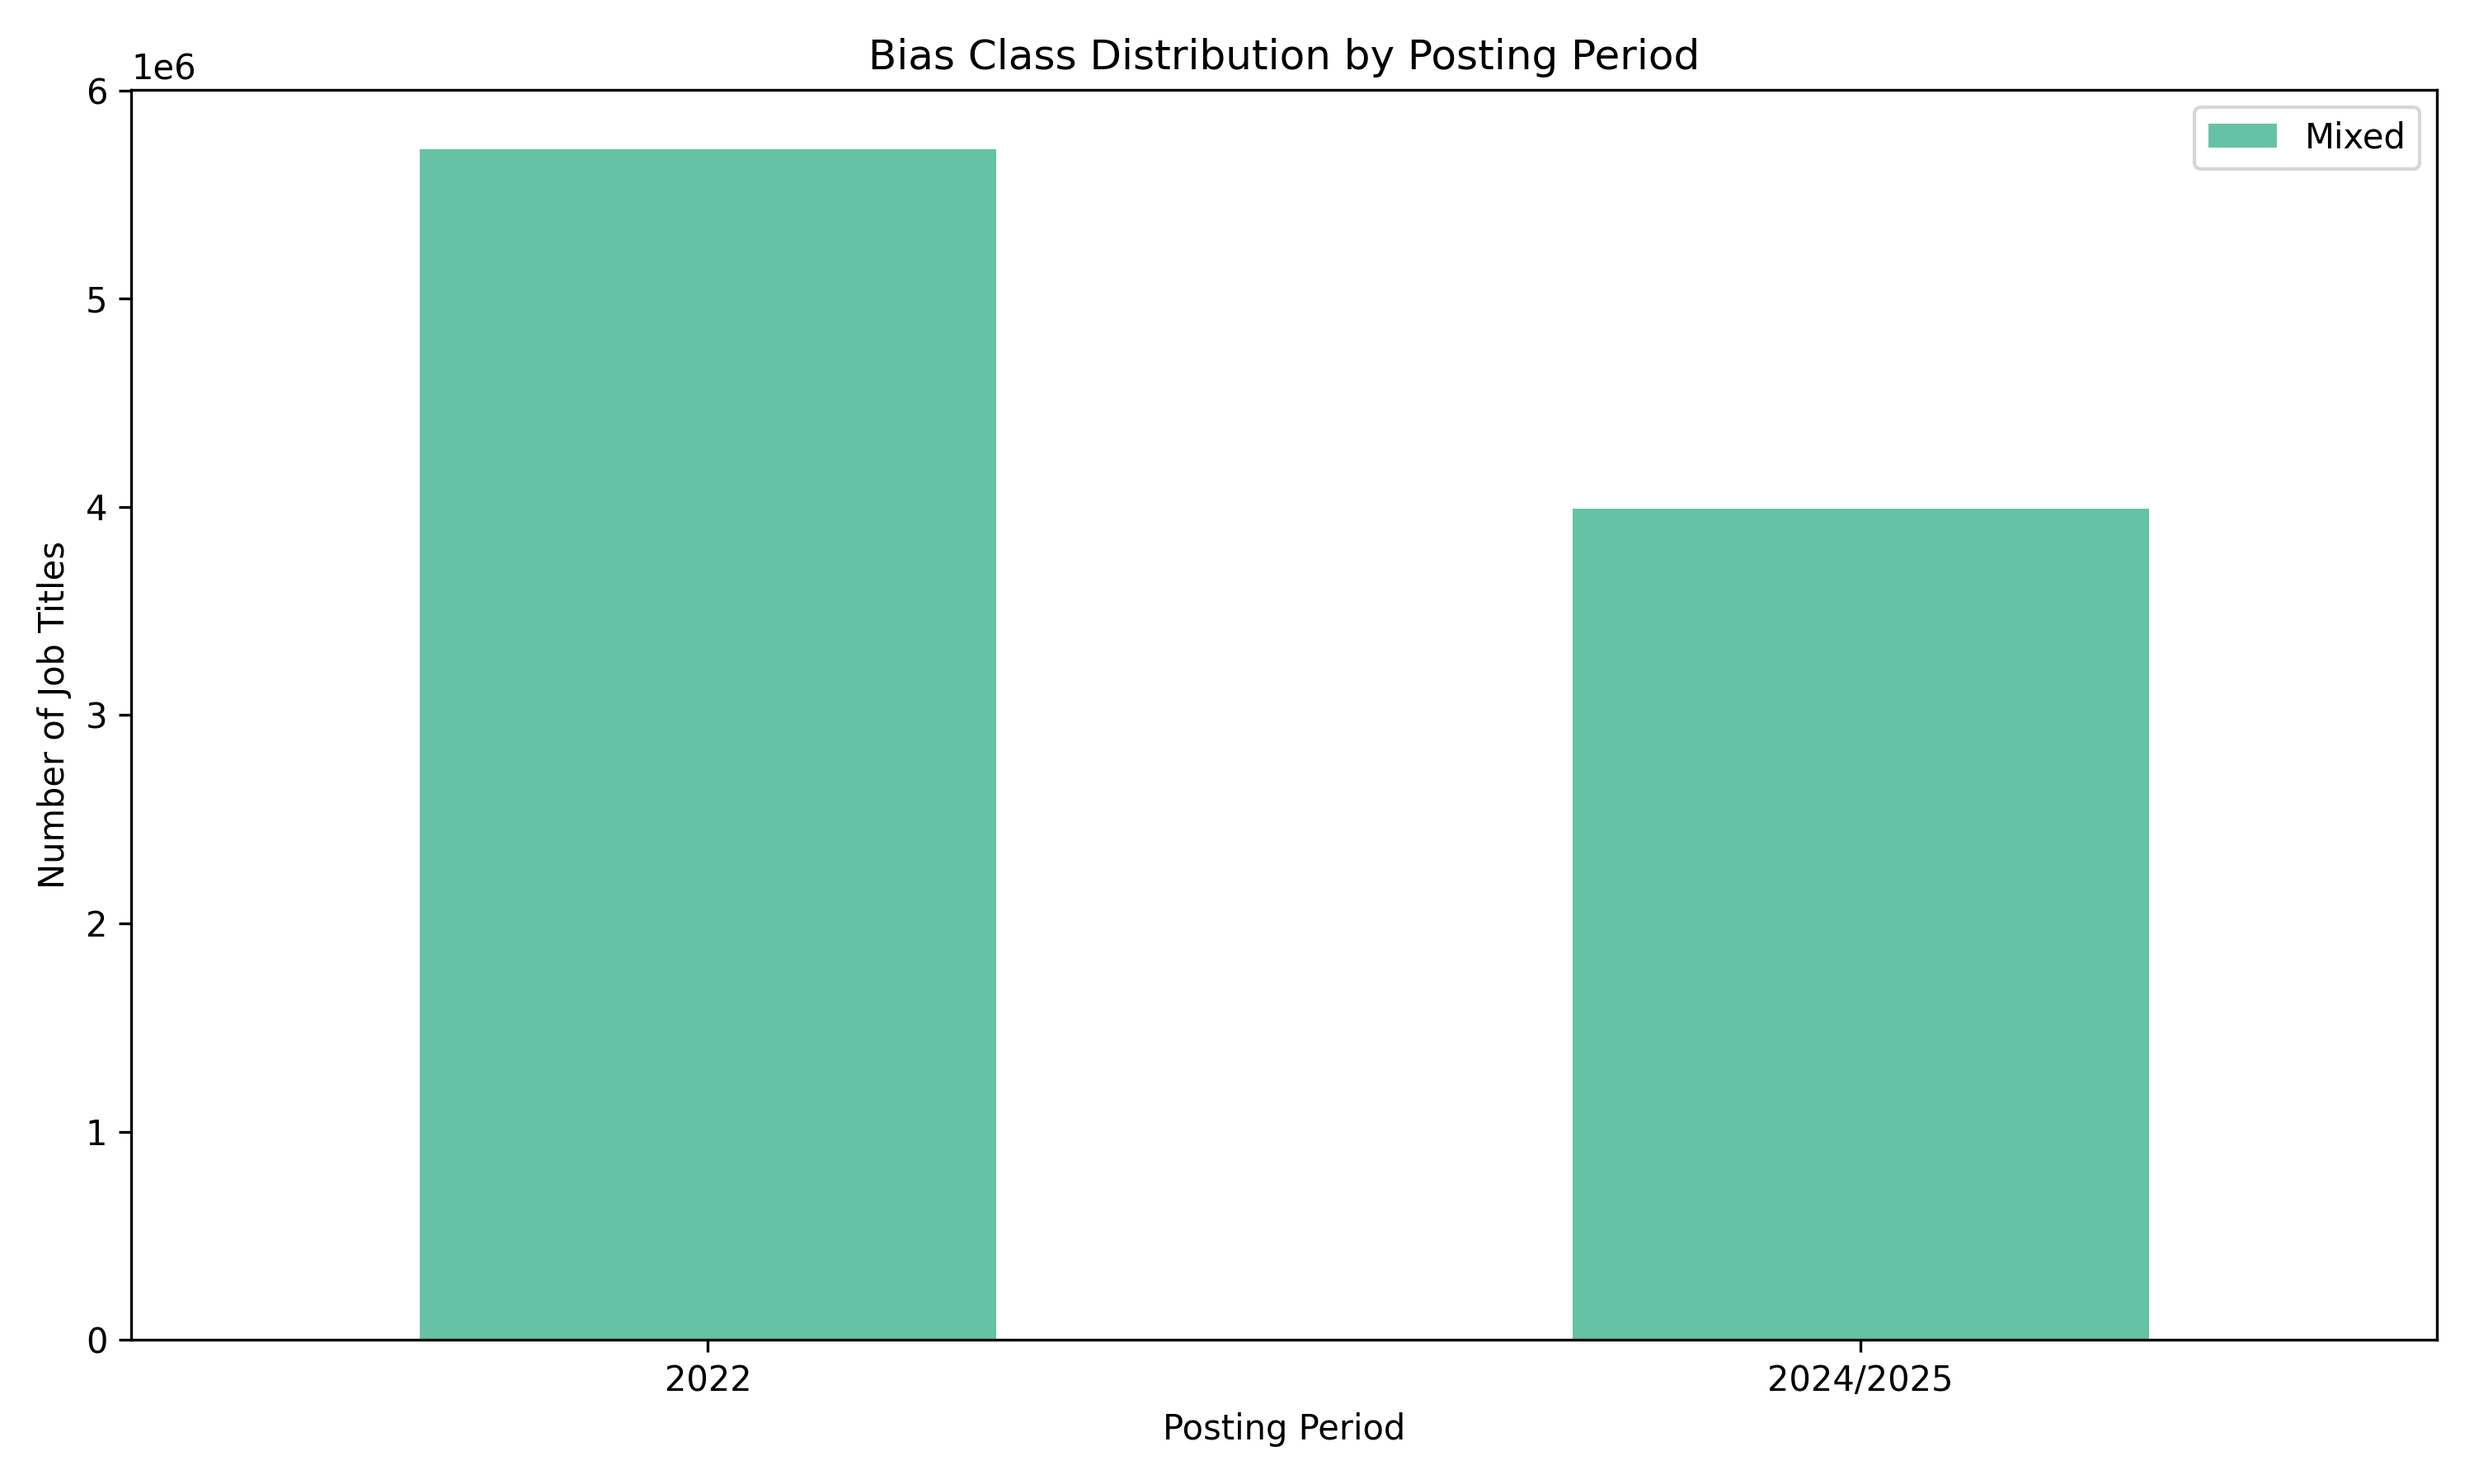
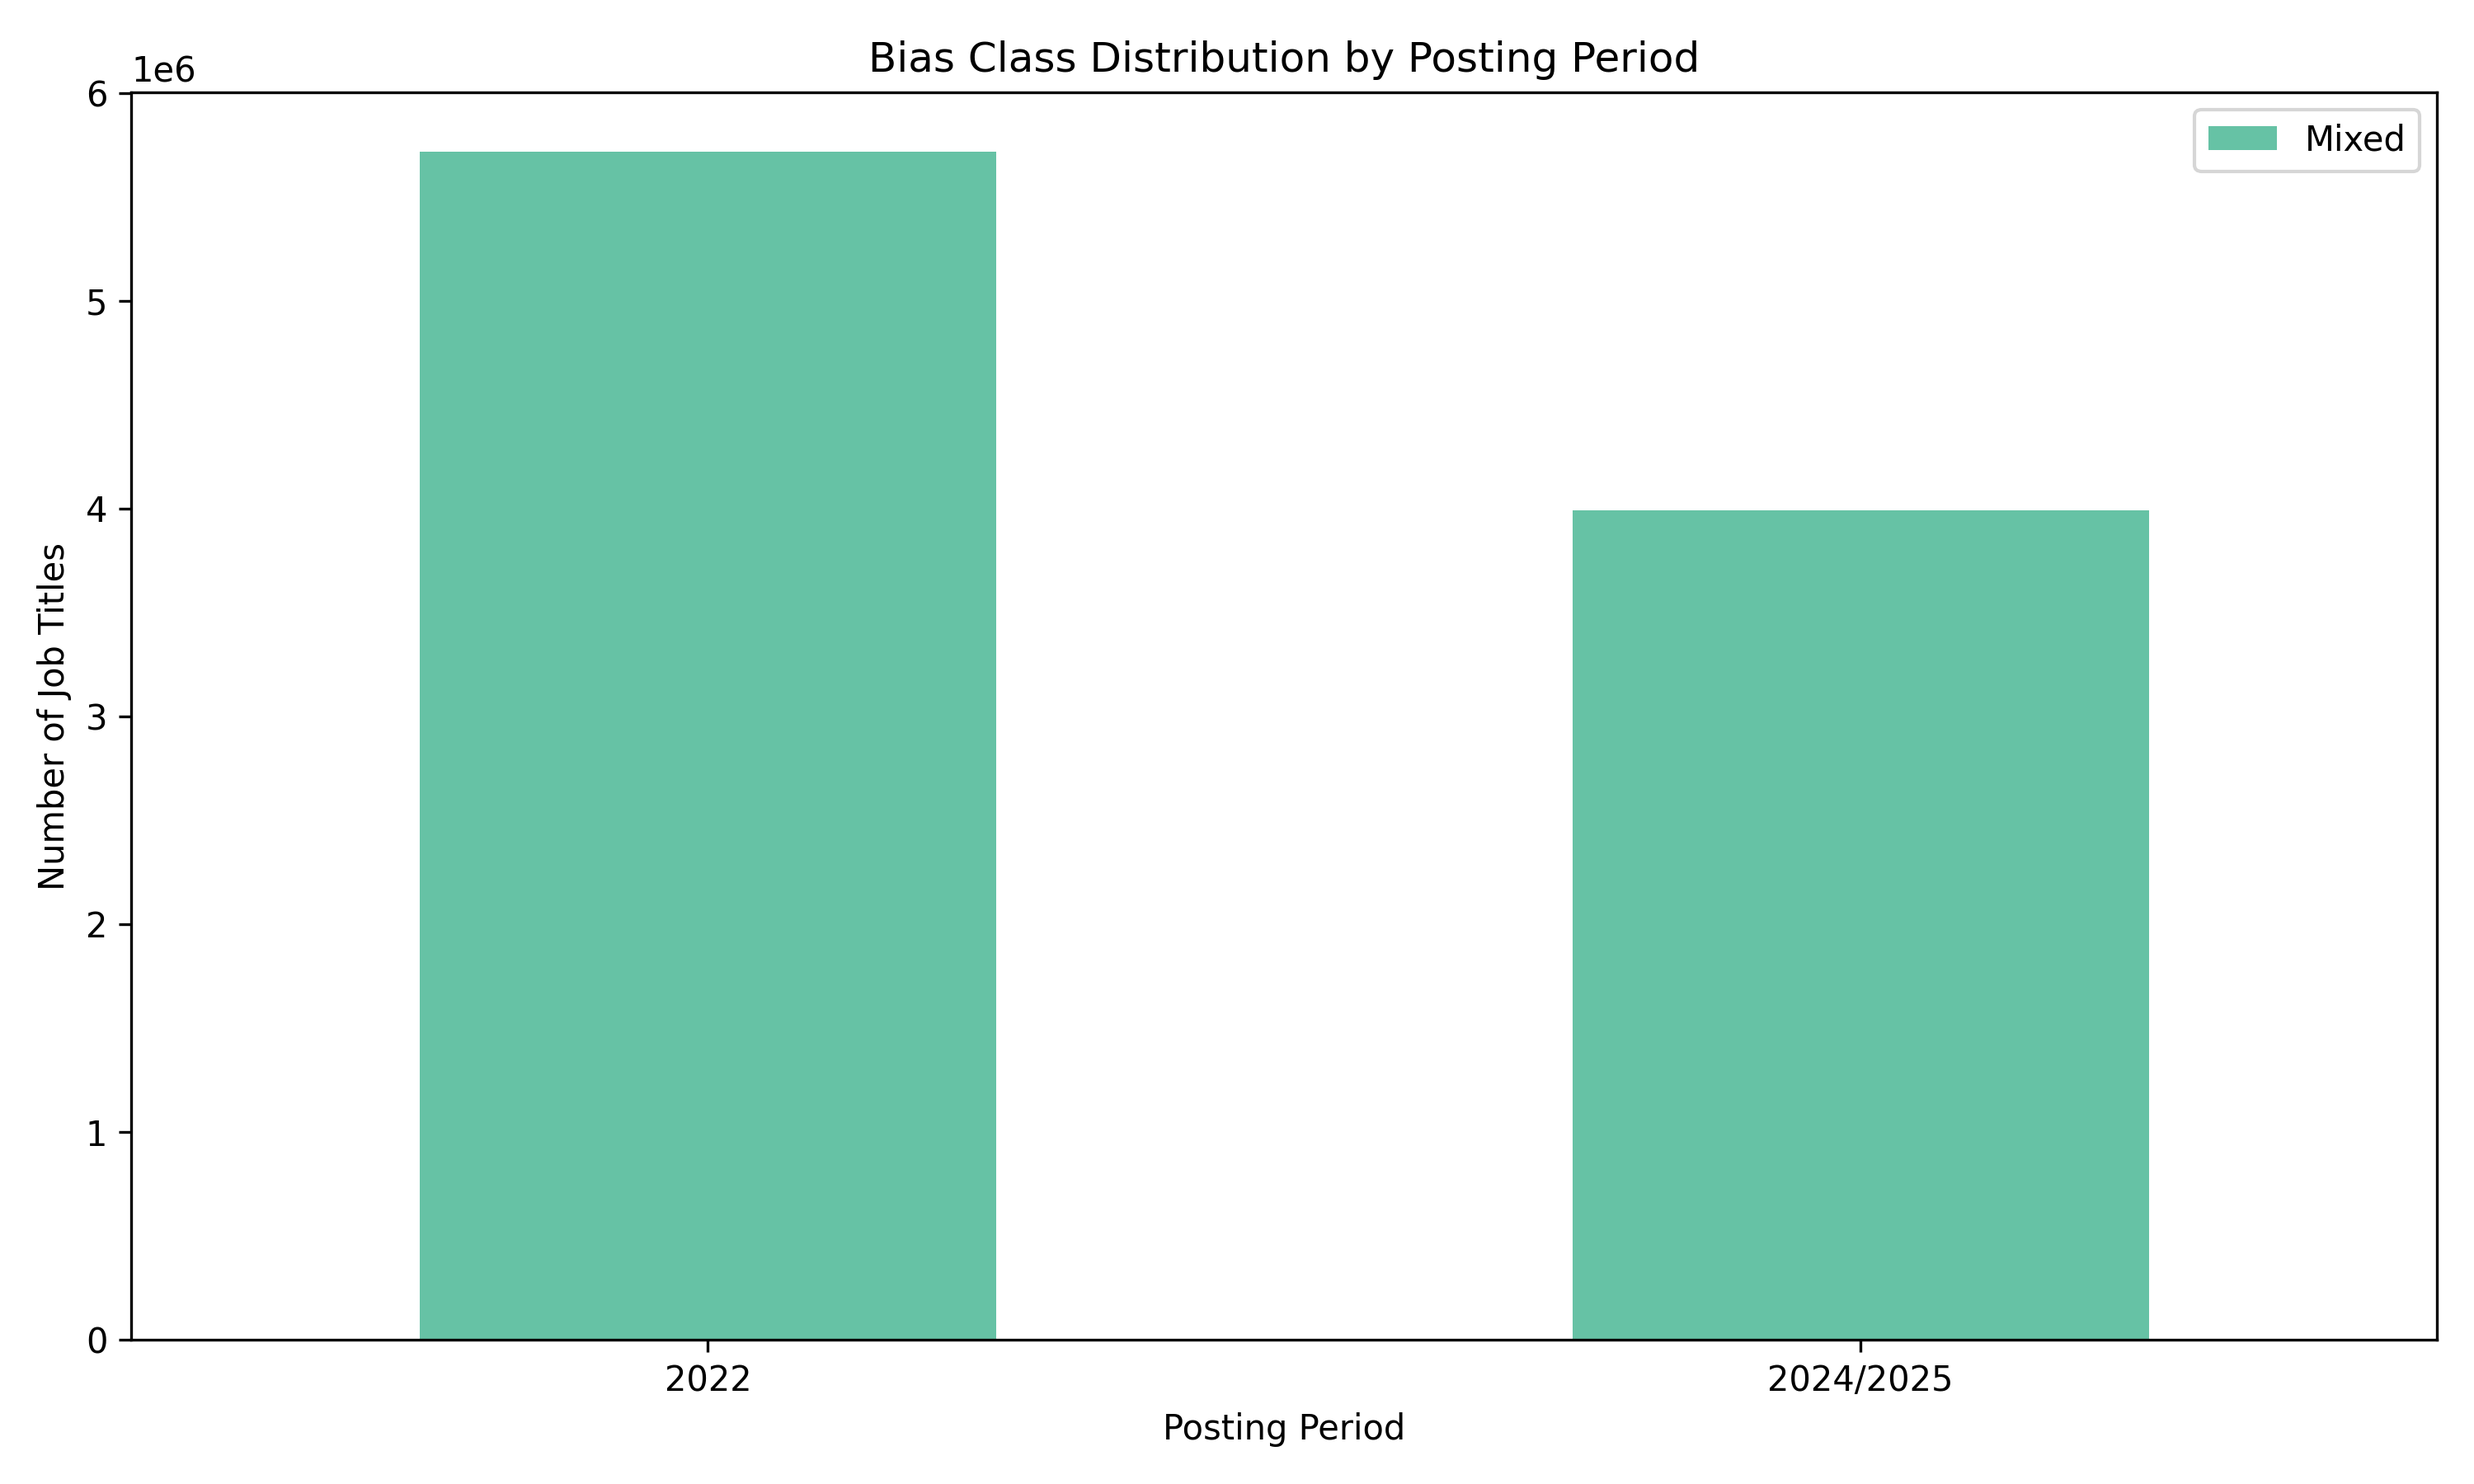
cleaning...

diff --git a/job_title_gender_bias_analysis.py b/job_title_gender_bias_analysis.py
@@ -7,6 +7,16 @@ from tqdm import tqdm
 import os
 import matplotlib.pyplot as plt
 from functools import lru_cache  
+import seaborn as sns
+
+import torch
+
+if torch.cuda.is_available():
+    print("✅ GPU is available!")
+    print("Device name:", torch.cuda.get_device_name(0))
+else:
+    print("❌ GPU is NOT available.")
+
 
 # Setup
 tqdm.pandas()
@@ -16,13 +26,16 @@ plot_file = "plot_outputs/bias_class_by_period.png"
 os.makedirs("plot_outputs", exist_ok=True)
 
 # Load full dataset
-df_jtgba = pd.read_csv("df_desc_filt.csv")
+df_jtgba = pd.read_csv("df_desc_filt.csv", low_memory=False)
+
 df_jtgba["summary_PostingCreated"] = pd.to_datetime(df_jtgba["summary_PostingCreated"], errors="coerce")
 df_jtgba["Posting_Year"] = df_jtgba["summary_PostingCreated"].dt.year
 
 # Prepare job titles
 job_df = df_jtgba[["summary_Occupation", "Posting_Year"]].dropna(subset=["summary_Occupation"])
 job_df = job_df.rename(columns={"summary_Occupation": "job_title"})
+
+print(job_df.head())
 
 # Load FastText vectors
 print("\nLoading FastText vectors...")
@@ -163,14 +176,14 @@ summary_df = pd.read_csv("jobnet_gender_bias_grouped_summary.csv")
 # import matplotlib.pyplot as plt
 import seaborn as sns
 
-# --- Load summary (optional if running separately) ---
-#summary_df = pd.read_csv("jobnet_gender_bias_grouped_summary.csv", index_col=0)
+# Load summary (optional if running separately)
+summary_df = pd.read_csv("jobnet_gender_bias_grouped_summary.csv", index_col=0)
 
-# --- Ensure correct order (optional but recommended) ---
+# Ensure correct order (optional but recommended)
 desired_order = ["2022", "2024/2025"]
 summary_df = summary_df.reindex([p for p in desired_order if p in summary_df.index])
 
-# ✅ Option 1: FIXED version of Pandas default bar plot
+# Option 1: FIXED version of Pandas default bar plot
 summary_df.plot(kind="bar", stacked=True, colormap="Set2", figsize=(10, 6))
 plt.title("Bias Class Distribution by Posting Period")
 plt.xlabel("Posting Period")
@@ -180,7 +193,7 @@ plt.tight_layout()
 plt.savefig("plot_outputs/bias_class_by_period_fixed.png", dpi=300)
 plt.show()
 
-# ✅ Option 2 (Recommended): Seaborn version with cleaner look
+# Option 2 (Recommended): Seaborn version with cleaner look
 # Convert to long format for seaborn
 summary_long = summary_df.reset_index().melt(id_vars="Posting_Period", 
                                               var_name="Bias Class", 
